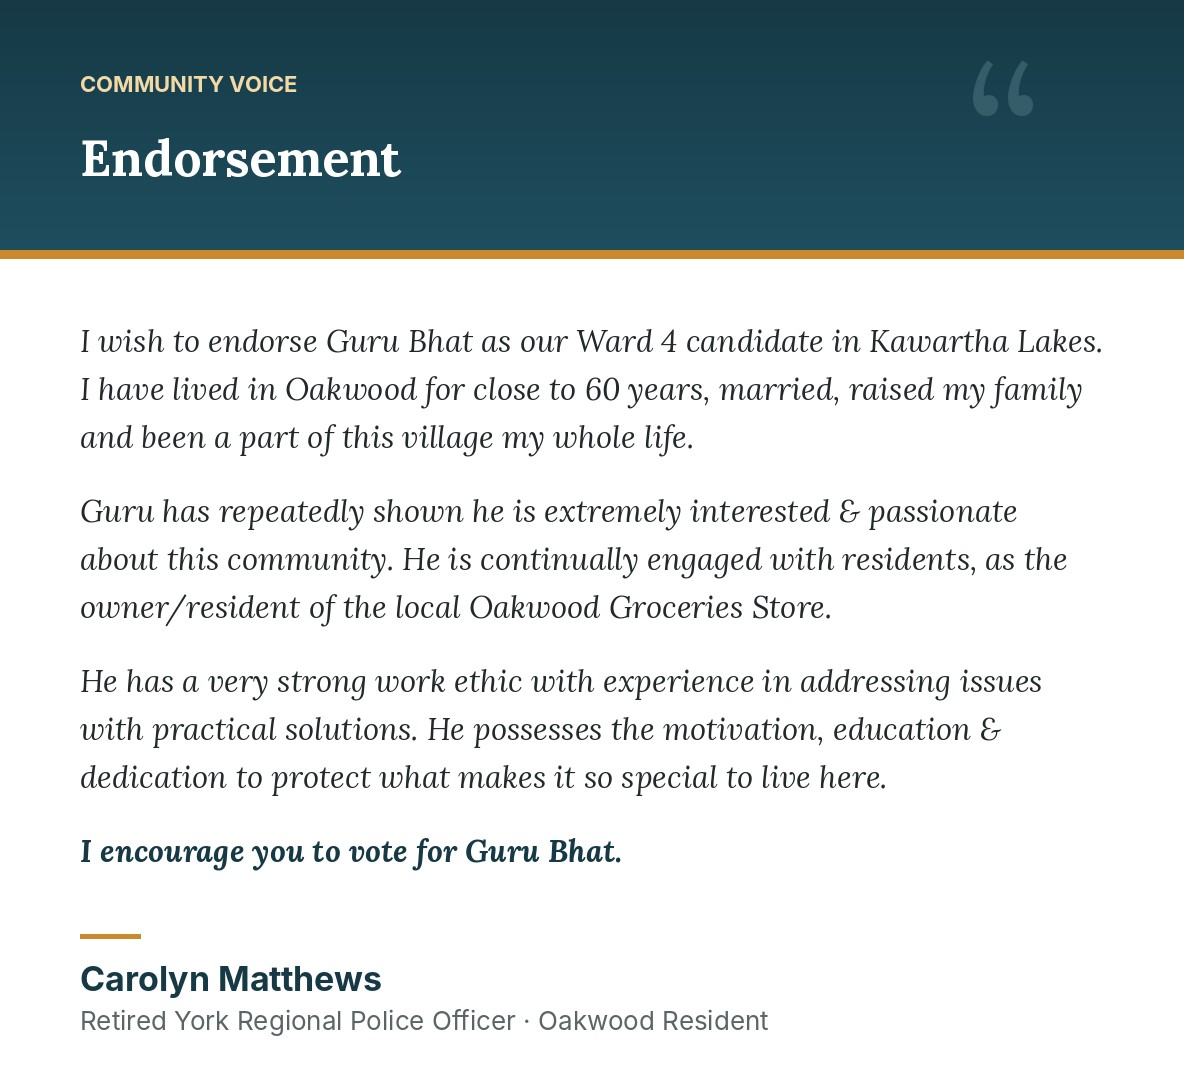
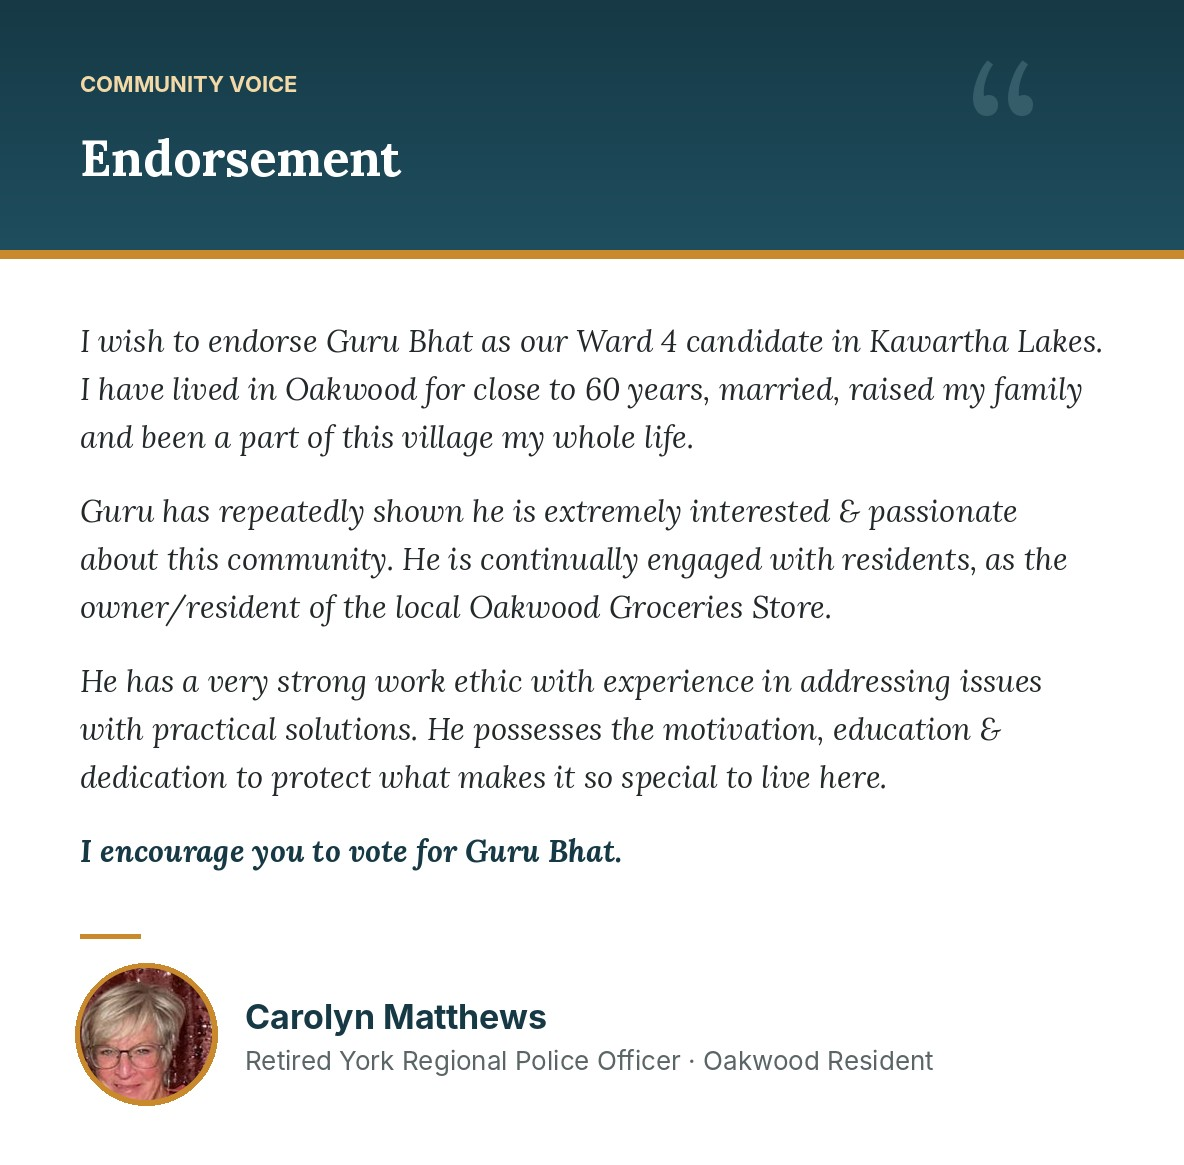
Add files via upload

diff --git a/index.html b/index.html
@@ -658,7 +658,7 @@ footer{
 <style>
 #flyerPopup{position:fixed;inset:0;z-index:1000;background:rgba(14,30,38,.82);display:flex;align-items:center;justify-content:center;padding:16px;}
 #flyerPopup.hidden{display:none;}
-#flyerPopup .fp-box{position:relative;background:#fff;border-radius:14px;width:100%;max-width:560px;max-height:calc(100vh - 32px);display:flex;flex-direction:column;box-shadow:0 20px 60px rgba(0,0,0,.4);overflow:hidden;}
+#flyerPopup .fp-box{position:relative;background:#fff;border-radius:14px;width:100%;max-width:860px;max-height:calc(100vh - 32px);display:flex;flex-direction:column;box-shadow:0 20px 60px rgba(0,0,0,.4);overflow:hidden;}
 #flyerPopup .fp-scroll{overflow-y:auto;-webkit-overflow-scrolling:touch;}
 #flyerPopup .fp-scroll img{width:100%;height:auto;display:block;}
 #flyerPopup .fp-scroll img + img{border-top:6px solid var(--cream);}
@@ -673,9 +673,11 @@ body.fp-open{overflow:hidden;}
     <div class="fp-box">
         <button class="fp-close" id="fpClose" aria-label="Close">&times;</button>
         <div class="fp-scroll">
-            <img src="roadshow_flyer.jpeg" alt="Ward 4 Candidates Travelling Road Show, Stop 3 — October 15, 2026 at Oakwood Lions Club, 1008 Eldon Rd, Oakwood. Doors open 6:30pm, Meet &amp; Greet begins 7:00pm.">
+            <img src="note_card_front.jpeg" alt="A personal note from Guru Bhat to his Ward 4 neighbours, with his 3 commitments. Voting October 16 to 26.">
+            <img src="note_card_back.jpeg" alt="2026 voting information: voting opens Friday October 16 at 9:00 AM and closes Monday October 26 at 8:00 PM, by internet or telephone using your Voting PIN.">
         </div>
-        <div class="fp-bar" style="justify-content:center;">
+        <div class="fp-bar">
+            <span class="fp-hint">Scroll for voting information &darr;</span>
             <button class="btn" id="fpEnter">Enter Site &rarr;</button>
         </div>
     </div>
@@ -699,8 +701,8 @@ body.fp-open{overflow:hidden;}
         <a href="#about">About</a>       
         <a href="#commitment">Commitment</a>
         <a href="#volunteer">Volunteer</a>
-        <a href="#election">Election Info</a>
         <a href="#testimonials">Testimonials</a>
+        <a href="#election">Election Info</a>
         <a href="#gallery">Gallery</a>
         <a href="#events">Events</a>
         <a href="#social">Social Media</a>
@@ -943,143 +945,6 @@ body.fp-open{overflow:hidden;}
     </div>
 </section>
 
-<!-- ---------- Events ---------- -->
-<section id="events" style="background:#f7f8fa;padding:60px 0;">
-    <div class="container">
-        <div class="section-head">
-            <span class="eyebrow-tag">Mark Your Calendar</span>
-            <h2>Upcoming Events</h2>
-        </div>
-        <div style="max-width:620px;margin:36px auto 0;border-radius:14px;overflow:hidden;box-shadow:0 6px 28px rgba(0,0,0,0.12);">
-            <img src="event1.jpeg" alt="Ward 4 Candidates Travelling Road Show — September 21, October 1 & October 15, 2026" style="width:100%;height:auto;display:block;">
-        </div>
-        <div style="max-width:680px;margin:20px auto 0;display:flex;gap:12px;justify-content:center;flex-wrap:wrap;">
-            <div style="flex:1;min-width:180px;background:var(--lake-deep);color:#fff;border-radius:10px;padding:16px 18px;text-align:center;">
-                <p style="margin:0 0 4px;font-size:.75rem;opacity:.7;text-transform:uppercase;letter-spacing:.06em;">Stop 1</p>
-                <p style="margin:0 0 2px;font-weight:700;font-size:.95rem;">Sept 21, 2026 · 6:30 PM</p>
-                <p style="margin:0;font-size:.85rem;opacity:.85;">Valentia Community Hall<br>102 Elm Tree Rd, Little Britain</p>
-            </div>
-            <div style="flex:1;min-width:180px;background:var(--lake-deep);color:#fff;border-radius:10px;padding:16px 18px;text-align:center;">
-                <p style="margin:0 0 4px;font-size:.75rem;opacity:.7;text-transform:uppercase;letter-spacing:.06em;">Stop 2</p>
-                <p style="margin:0 0 2px;font-weight:700;font-size:.95rem;">Oct 1, 2026 · 6:30 PM</p>
-                <p style="margin:0;font-size:.85rem;opacity:.85;">Woodville Legion Hall<br>126 Queen St, Woodville</p>
-            </div>
-            <div style="flex:1;min-width:180px;background:var(--lake-deep);color:#fff;border-radius:10px;padding:16px 18px;text-align:center;">
-                <p style="margin:0 0 4px;font-size:.75rem;opacity:.7;text-transform:uppercase;letter-spacing:.06em;">Stop 3</p>
-                <p style="margin:0 0 2px;font-weight:700;font-size:.95rem;">Oct 15, 2026 · 6:30 PM</p>
-                <p style="margin:0;font-size:.85rem;opacity:.85;">Oakwood Lions Club<br>1008 Eldon Rd, Oakwood</p>
-            </div>
-        </div>
-    </div>
-</section>
-
-
-<!-- ---------- Social Media ---------- -->
-<section id="social" style="background:#f7f8fa;padding:60px 0;">
-    <div class="container">
-        <div class="section-head">
-            <span class="eyebrow-tag">Stay Connected</span>
-            <h2>Social Media</h2>
-            <p style="color:var(--ink-soft);">Follow along and stay up to date with the Ward 4 campaign.</p>
-        </div>
-
-        <div style="max-width:420px;margin:0 auto;">
-
-            <!-- Facebook card with border -->
-            <div style="border-radius:18px;overflow:hidden;box-shadow:0 8px 40px rgba(24,119,242,0.18),0 2px 12px rgba(0,0,0,0.08);border:2.5px solid #1877F2;background:#fff;">
-
-                <!-- Card header bar -->
-                <div style="background:linear-gradient(90deg,#1877F2,#42a5f5);padding:18px 24px;display:flex;align-items:center;gap:14px;">
-                    <div style="width:42px;height:42px;border-radius:50%;background:rgba(255,255,255,0.2);display:flex;align-items:center;justify-content:center;flex-shrink:0;">
-                        <svg xmlns="http://www.w3.org/2000/svg" width="22" height="22" viewBox="0 0 24 24" fill="white">
-                            <path d="M18 2h-3a5 5 0 0 0-5 5v3H7v4h3v8h4v-8h3l1-4h-4V7a1 1 0 0 1 1-1h3z"/>
-                        </svg>
-                    </div>
-                    <div>
-                        <p style="margin:0;color:#fff;font-weight:700;font-size:1rem;line-height:1.2;">Guru Bhat — Ward 4 Councillor Candidate</p>
-                        <p style="margin:0;color:rgba(255,255,255,0.8);font-size:.62rem;">Facebook Page</p>
-                    </div>
-                </div>
-
-                <!-- Facebook Page Plugin embed (full width, centered) -->
-                <div id="fb-root"></div>
-                <script async defer crossorigin="anonymous"
-                    src="https://connect.facebook.net/en_US/sdk.js#xfbml=1&version=v21.0">
-                </script>
-                <div style="background:#fff;display:flex;justify-content:center;align-items:flex-start;width:100%;min-height:500px;overflow:hidden;">
-                    <iframe
-                        name="fa523b3fcbbdd7eb2"
-                        width="560"
-                        height="500"
-                        data-testid="fb:page Facebook Social Plugin"
-                        title="fb:page Facebook Social Plugin"
-                        frameborder="0"
-                        allowtransparency="true"
-                        allowfullscreen="true"
-                        scrolling="no"
-                        allow="encrypted-media"
-                        src="https://www.facebook.com/v21.0/plugins/page.php?adapt_container_width=true&amp;app_id=&amp;channel=https%3A%2F%2Fstaticxx.facebook.com%2Fx%2Fconnect%2Fxd_arbiter%2F%3Fversion%3D46%23cb%3Df34d76260318b6615%26domain%3Ddevelopers.facebook.com%26is_canvas%3Dfalse%26origin%3Dhttps%253A%252F%252Fdevelopers.facebook.com%252Ff5e0a5935f878cbe5%26relation%3Dparent.parent&amp;container_width=766&amp;hide_cover=false&amp;href=https%3A%2F%2Fwww.facebook.com%2Fprofile.php%3Fid%3D61591042955366%26rdid%3Dfu9HldX97tQASPWd%26share_url%3Dhttps%253A%252F%252Fwww.facebook.com%252Fshare%252F19MgmdpSnd%252F%23&amp;locale=en_US&amp;sdk=joey&amp;show_facepile=true&amp;small_header=false&amp;tabs=timeline"
-                        style="border:none;display:block;width:560px;max-width:100%;height:500px;">
-                    </iframe>
-                </div>
-
-                <!-- Card footer -->
-                <div style="padding:18px 24px;border-top:1px solid #e8f0fe;background:#f0f4ff;text-align:center;">
-                    <a href="https://www.facebook.com/profile.php?id=61591042955366"
-                       target="_blank" rel="noopener"
-                       style="display:inline-flex;align-items:center;gap:10px;background:#1877F2;color:#fff;border-radius:50px;padding:12px 28px;font-weight:700;font-size:.97rem;text-decoration:none;box-shadow:0 4px 14px rgba(24,119,242,0.35);"
-                       onmouseover="this.style.boxShadow='0 6px 20px rgba(24,119,242,0.5)'"
-                       onmouseout="this.style.boxShadow='0 4px 14px rgba(24,119,242,0.35)'">
-                        <svg xmlns="http://www.w3.org/2000/svg" width="18" height="18" viewBox="0 0 24 24" fill="currentColor">
-                            <path d="M18 2h-3a5 5 0 0 0-5 5v3H7v4h3v8h4v-8h3l1-4h-4V7a1 1 0 0 1 1-1h3z"/>
-                        </svg>
-                        Follow on Facebook
-                    </a>
-                </div>
-            </div>
-
-        </div>
-    </div>
-</section>
-
-<!-- ---------- Contact ---------- -->
-<section id="contact">
-    <div class="container">
-        <div class="section-head">
-            <span class="eyebrow-tag">Get in touch</span>
-            <h2>Contact the campaign</h2>
-        </div>
-        <div class="contact-card">
-            <h3>Guru Bhat</h3>
-            <p class="role">Candidate for Ward Councillor, Ward 4 &middot; City of Kawartha Lakes</p>
-            <div class="contact-row">&#9993;&nbsp; <a href="mailto:Oakwoodguru@gmail.com">Oakwoodguru@gmail.com</a></div>
-            <div class="contact-row">&#9742;&nbsp; <a href="tel:7056239323">705-623-9323</a></div>
-            <div class="contact-row" style="border-top:none;padding:12px 0;">
-                <a href="https://www.facebook.com/share/1D6XRGDQnM/?mibextid=wwXIfr" target="_blank" rel="noopener" aria-label="Follow Guru Bhat on Facebook" style="display:inline-flex;align-items:center;justify-content:center;width:40px;height:40px;border-radius:50%;background:rgba(30,60,100,0.12);color:var(--lake-deep);transition:background .2s;" onmouseover="this.style.background='#1877F2';this.style.color='#fff'" onmouseout="this.style.background='rgba(30,60,100,0.12)';this.style.color='var(--lake-deep)'">
-                    <svg xmlns="http://www.w3.org/2000/svg" width="20" height="20" viewBox="0 0 24 24" fill="currentColor">
-                        <path d="M18 2h-3a5 5 0 0 0-5 5v3H7v4h3v8h4v-8h3l1-4h-4V7a1 1 0 0 1 1-1h3z"/>
-                    </svg>
-                </a>
-            </div>
-        </div>
-    </div>
-</section>
-
-<!-- ---------- Election Info ---------- -->
-<section id="election" style="background:#fff;padding:60px 0;">
-    <div class="container">
-        <div class="section-head">
-            <span class="eyebrow-tag">How to Vote</span>            
-        </div>
-        <div style="max-width:680px;margin:36px auto 0;background:var(--cream);border-radius:var(--radius);padding:36px 40px;box-shadow:var(--shadow);border-left:5px solid var(--gold);">
-            <h3 style="font-family:'Lora',serif;font-size:1.35rem;color:var(--lake-deep);margin-bottom:14px;">&#128197; Vote Online · October 16–26</h3>
-            <p style="color:var(--ink);line-height:1.75;margin-bottom:14px;">The municipal election takes place <strong>October 26, 2026</strong>. Voting will be open <strong>October 16–26</strong> by internet or phone. You do <strong>not</strong> need to go to a polling station. Every eligible resident of Kawartha Lakes can vote.</p>
-            <p style="color:var(--ink);line-height:1.75;margin-bottom:24px;">More information will be provided ahead of the vote through the City of Kawartha Lakes. You can learn more about the voting process at <a href="https://www.kawarthalakes.ca/election" target="_blank" style="color:var(--lake);font-weight:600;text-decoration:underline;">www.kawarthalakes.ca/election</a>.</p>
-            <a href="https://vreg.registertovoteon.ca/en/home" target="_blank" class="btn" style="display:inline-block;">&#10003; Check if you're registered to vote!</a>
-        </div>
-    </div>
-</section>
-
 <!-- ---------- Testimonials ---------- -->
 <section id="testimonials" style="background:#f7f8fa;padding:60px 0;">
     <div class="container">
@@ -1144,7 +1009,7 @@ body.fp-open{overflow:hidden;}
             </div>
             <div class="t-slide" style="display:none;">
                 <div style="background:#fff;border-radius:14px;box-shadow:0 4px 22px rgba(0,0,0,0.10);overflow:hidden;">
-                    <img src="testimonial11.jpeg" alt="Endorsement from Carolyn Matthews, retired York Regional Police officer and Oakwood resident" style="width:100%;height:auto;display:block;">
+                    <img src="testimonial11.jpeg?v=2" alt="Endorsement from Carolyn Matthews, retired York Regional Police officer and Oakwood resident" style="width:100%;height:auto;display:block;">
                 </div>
             </div>
 
@@ -1199,6 +1064,21 @@ body.fp-open{overflow:hidden;}
     window.goSlide=function(n){show(n);}
 })();
 </script>
+
+<!-- ---------- Election Info ---------- -->
+<section id="election" style="background:#fff;padding:60px 0;">
+    <div class="container">
+        <div class="section-head">
+            <span class="eyebrow-tag">How to Vote</span>            
+        </div>
+        <div style="max-width:680px;margin:36px auto 0;background:var(--cream);border-radius:var(--radius);padding:36px 40px;box-shadow:var(--shadow);border-left:5px solid var(--gold);">
+            <h3 style="font-family:'Lora',serif;font-size:1.35rem;color:var(--lake-deep);margin-bottom:14px;">&#128197; Vote Online · October 16–26</h3>
+            <p style="color:var(--ink);line-height:1.75;margin-bottom:14px;">The municipal election takes place <strong>October 26, 2026</strong>. Voting will be open <strong>October 16–26</strong> by internet or phone. You do <strong>not</strong> need to go to a polling station. Every eligible resident of Kawartha Lakes can vote.</p>
+            <p style="color:var(--ink);line-height:1.75;margin-bottom:24px;">More information will be provided ahead of the vote through the City of Kawartha Lakes. You can learn more about the voting process at <a href="https://www.kawarthalakes.ca/election" target="_blank" style="color:var(--lake);font-weight:600;text-decoration:underline;">www.kawarthalakes.ca/election</a>.</p>
+            <a href="https://vreg.registertovoteon.ca/en/home" target="_blank" class="btn" style="display:inline-block;">&#10003; Check if you're registered to vote!</a>
+        </div>
+    </div>
+</section>
 
 <!-- ---------- Gallery ---------- -->
 <section id="gallery" style="background:#fff;padding:60px 0;">
@@ -1323,6 +1203,116 @@ body.fp-open{overflow:hidden;}
             </div>
             <div style="border-radius:10px;overflow:hidden;box-shadow:0 3px 12px rgba(0,0,0,0.10);aspect-ratio:1/1;">
                 <img src="gallery44.jpeg" alt="Guru Bhat presenting gift basket to local youth at community event" style="width:100%;height:100%;object-fit:cover;display:block;transition:transform .3s;" onmouseover="this.style.transform='scale(1.05)'" onmouseout="this.style.transform='scale(1)'">
+            </div>
+        </div>
+    </div>
+</section>
+
+<!-- ---------- Events ---------- -->
+<section id="events" style="background:#f7f8fa;padding:60px 0;">
+    <div class="container">
+        <div class="section-head">
+            <span class="eyebrow-tag">Voting Is Open &middot; Oct 16&ndash;26</span>
+            <h2>A Personal Note &amp; Voting Information</h2>
+        </div>
+        <div style="max-width:820px;margin:36px auto 0;display:flex;flex-direction:column;gap:20px;">
+            <div style="border-radius:14px;overflow:hidden;box-shadow:0 6px 28px rgba(0,0,0,0.12);background:#fff;">
+                <img src="note_card_front.jpeg" alt="A personal note from Guru Bhat to his Ward 4 neighbours, with his 3 commitments: a Ward 4 councillor office, regular community meetings, and regular community updates. Voting October 16 to 26." style="width:100%;height:auto;display:block;">
+            </div>
+            <div style="border-radius:14px;overflow:hidden;box-shadow:0 6px 28px rgba(0,0,0,0.12);background:#fff;">
+                <img src="note_card_back.jpeg" alt="2026 voting information: voting opens Friday October 16 at 9:00 AM and closes Monday October 26 at 8:00 PM, by internet or telephone using your Voting PIN. Voting help at City Hall, 26 Francis St Lindsay; Woodville Library, 78 King St; and Little Britain Library, 9 Arena Rd." style="width:100%;height:auto;display:block;">
+            </div>
+        </div>
+    </div>
+</section>
+
+
+<!-- ---------- Social Media ---------- -->
+<section id="social" style="background:#f7f8fa;padding:60px 0;">
+    <div class="container">
+        <div class="section-head">
+            <span class="eyebrow-tag">Stay Connected</span>
+            <h2>Social Media</h2>
+            <p style="color:var(--ink-soft);">Follow along and stay up to date with the Ward 4 campaign.</p>
+        </div>
+
+        <div style="max-width:420px;margin:0 auto;">
+
+            <!-- Facebook card with border -->
+            <div style="border-radius:18px;overflow:hidden;box-shadow:0 8px 40px rgba(24,119,242,0.18),0 2px 12px rgba(0,0,0,0.08);border:2.5px solid #1877F2;background:#fff;">
+
+                <!-- Card header bar -->
+                <div style="background:linear-gradient(90deg,#1877F2,#42a5f5);padding:18px 24px;display:flex;align-items:center;gap:14px;">
+                    <div style="width:42px;height:42px;border-radius:50%;background:rgba(255,255,255,0.2);display:flex;align-items:center;justify-content:center;flex-shrink:0;">
+                        <svg xmlns="http://www.w3.org/2000/svg" width="22" height="22" viewBox="0 0 24 24" fill="white">
+                            <path d="M18 2h-3a5 5 0 0 0-5 5v3H7v4h3v8h4v-8h3l1-4h-4V7a1 1 0 0 1 1-1h3z"/>
+                        </svg>
+                    </div>
+                    <div>
+                        <p style="margin:0;color:#fff;font-weight:700;font-size:1rem;line-height:1.2;">Guru Bhat — Ward 4 Councillor Candidate</p>
+                        <p style="margin:0;color:rgba(255,255,255,0.8);font-size:.62rem;">Facebook Page</p>
+                    </div>
+                </div>
+
+                <!-- Facebook Page Plugin embed (full width, centered) -->
+                <div id="fb-root"></div>
+                <script async defer crossorigin="anonymous"
+                    src="https://connect.facebook.net/en_US/sdk.js#xfbml=1&version=v21.0">
+                </script>
+                <div style="background:#fff;display:flex;justify-content:center;align-items:flex-start;width:100%;min-height:500px;overflow:hidden;">
+                    <iframe
+                        name="fa523b3fcbbdd7eb2"
+                        width="560"
+                        height="500"
+                        data-testid="fb:page Facebook Social Plugin"
+                        title="fb:page Facebook Social Plugin"
+                        frameborder="0"
+                        allowtransparency="true"
+                        allowfullscreen="true"
+                        scrolling="no"
+                        allow="encrypted-media"
+                        src="https://www.facebook.com/v21.0/plugins/page.php?adapt_container_width=true&amp;app_id=&amp;channel=https%3A%2F%2Fstaticxx.facebook.com%2Fx%2Fconnect%2Fxd_arbiter%2F%3Fversion%3D46%23cb%3Df34d76260318b6615%26domain%3Ddevelopers.facebook.com%26is_canvas%3Dfalse%26origin%3Dhttps%253A%252F%252Fdevelopers.facebook.com%252Ff5e0a5935f878cbe5%26relation%3Dparent.parent&amp;container_width=766&amp;hide_cover=false&amp;href=https%3A%2F%2Fwww.facebook.com%2Fprofile.php%3Fid%3D61591042955366%26rdid%3Dfu9HldX97tQASPWd%26share_url%3Dhttps%253A%252F%252Fwww.facebook.com%252Fshare%252F19MgmdpSnd%252F%23&amp;locale=en_US&amp;sdk=joey&amp;show_facepile=true&amp;small_header=false&amp;tabs=timeline"
+                        style="border:none;display:block;width:560px;max-width:100%;height:500px;">
+                    </iframe>
+                </div>
+
+                <!-- Card footer -->
+                <div style="padding:18px 24px;border-top:1px solid #e8f0fe;background:#f0f4ff;text-align:center;">
+                    <a href="https://www.facebook.com/profile.php?id=61591042955366"
+                       target="_blank" rel="noopener"
+                       style="display:inline-flex;align-items:center;gap:10px;background:#1877F2;color:#fff;border-radius:50px;padding:12px 28px;font-weight:700;font-size:.97rem;text-decoration:none;box-shadow:0 4px 14px rgba(24,119,242,0.35);"
+                       onmouseover="this.style.boxShadow='0 6px 20px rgba(24,119,242,0.5)'"
+                       onmouseout="this.style.boxShadow='0 4px 14px rgba(24,119,242,0.35)'">
+                        <svg xmlns="http://www.w3.org/2000/svg" width="18" height="18" viewBox="0 0 24 24" fill="currentColor">
+                            <path d="M18 2h-3a5 5 0 0 0-5 5v3H7v4h3v8h4v-8h3l1-4h-4V7a1 1 0 0 1 1-1h3z"/>
+                        </svg>
+                        Follow on Facebook
+                    </a>
+                </div>
+            </div>
+
+        </div>
+    </div>
+</section>
+
+<!-- ---------- Contact ---------- -->
+<section id="contact">
+    <div class="container">
+        <div class="section-head">
+            <span class="eyebrow-tag">Get in touch</span>
+            <h2>Contact the campaign</h2>
+        </div>
+        <div class="contact-card">
+            <h3>Guru Bhat</h3>
+            <p class="role">Candidate for Ward Councillor, Ward 4 &middot; City of Kawartha Lakes</p>
+            <div class="contact-row">&#9993;&nbsp; <a href="mailto:Oakwoodguru@gmail.com">Oakwoodguru@gmail.com</a></div>
+            <div class="contact-row">&#9742;&nbsp; <a href="tel:7056239323">705-623-9323</a></div>
+            <div class="contact-row" style="border-top:none;padding:12px 0;">
+                <a href="https://www.facebook.com/share/1D6XRGDQnM/?mibextid=wwXIfr" target="_blank" rel="noopener" aria-label="Follow Guru Bhat on Facebook" style="display:inline-flex;align-items:center;justify-content:center;width:40px;height:40px;border-radius:50%;background:rgba(30,60,100,0.12);color:var(--lake-deep);transition:background .2s;" onmouseover="this.style.background='#1877F2';this.style.color='#fff'" onmouseout="this.style.background='rgba(30,60,100,0.12)';this.style.color='var(--lake-deep)'">
+                    <svg xmlns="http://www.w3.org/2000/svg" width="20" height="20" viewBox="0 0 24 24" fill="currentColor">
+                        <path d="M18 2h-3a5 5 0 0 0-5 5v3H7v4h3v8h4v-8h3l1-4h-4V7a1 1 0 0 1 1-1h3z"/>
+                    </svg>
+                </a>
             </div>
         </div>
     </div>
